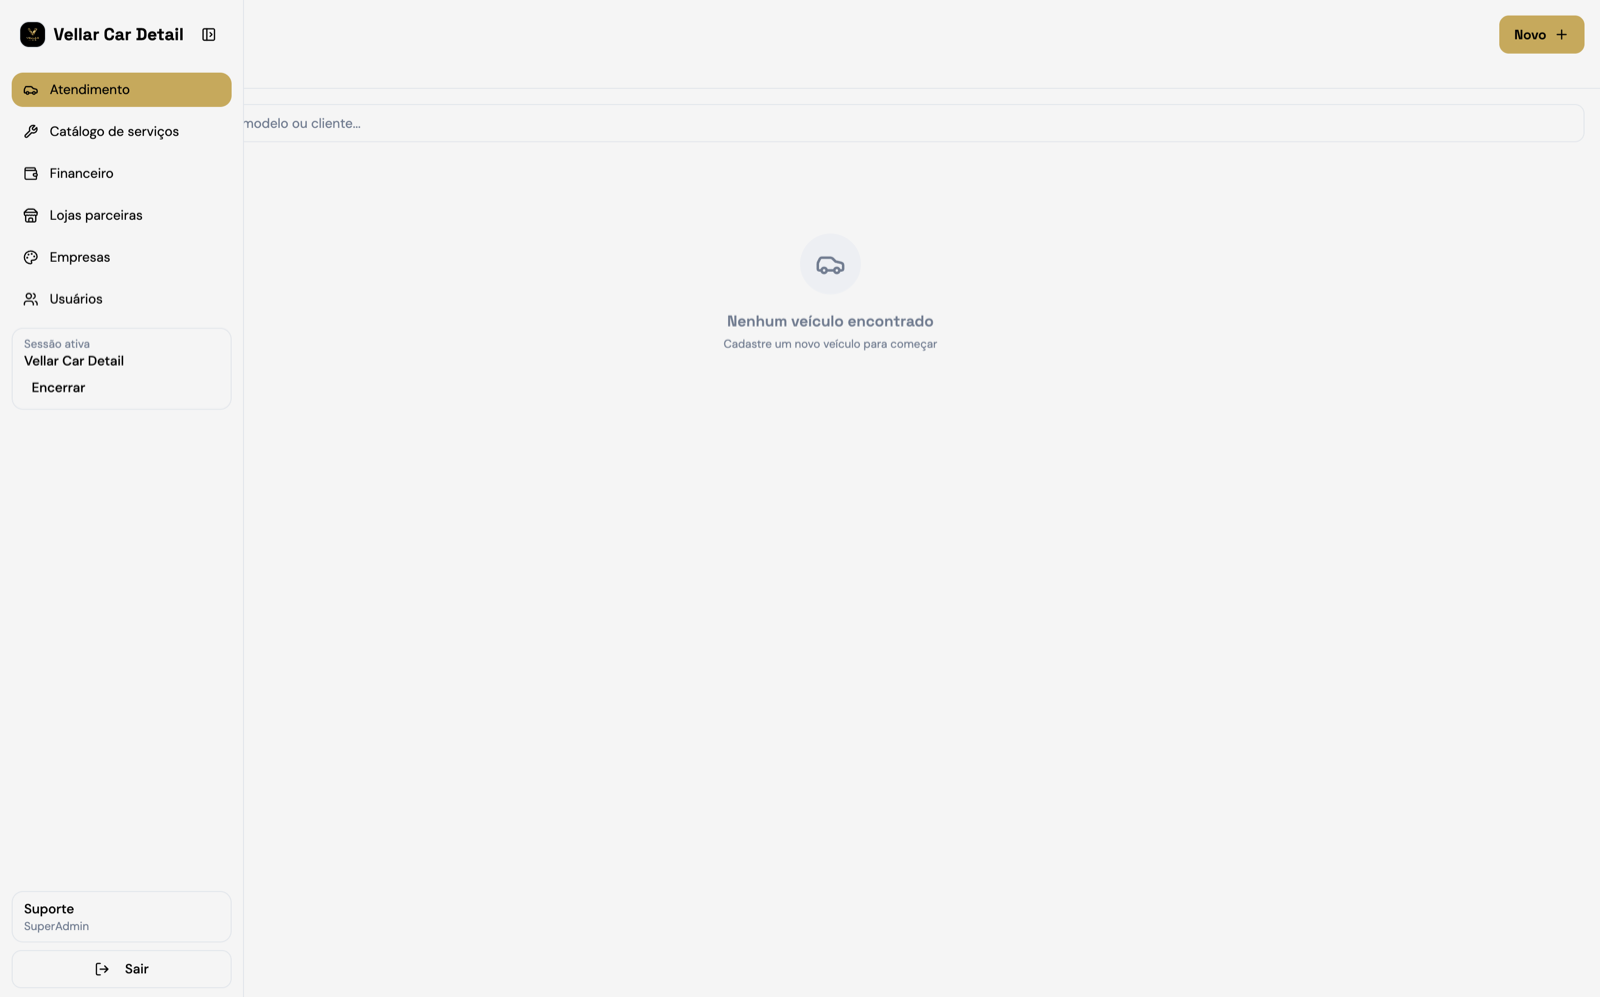
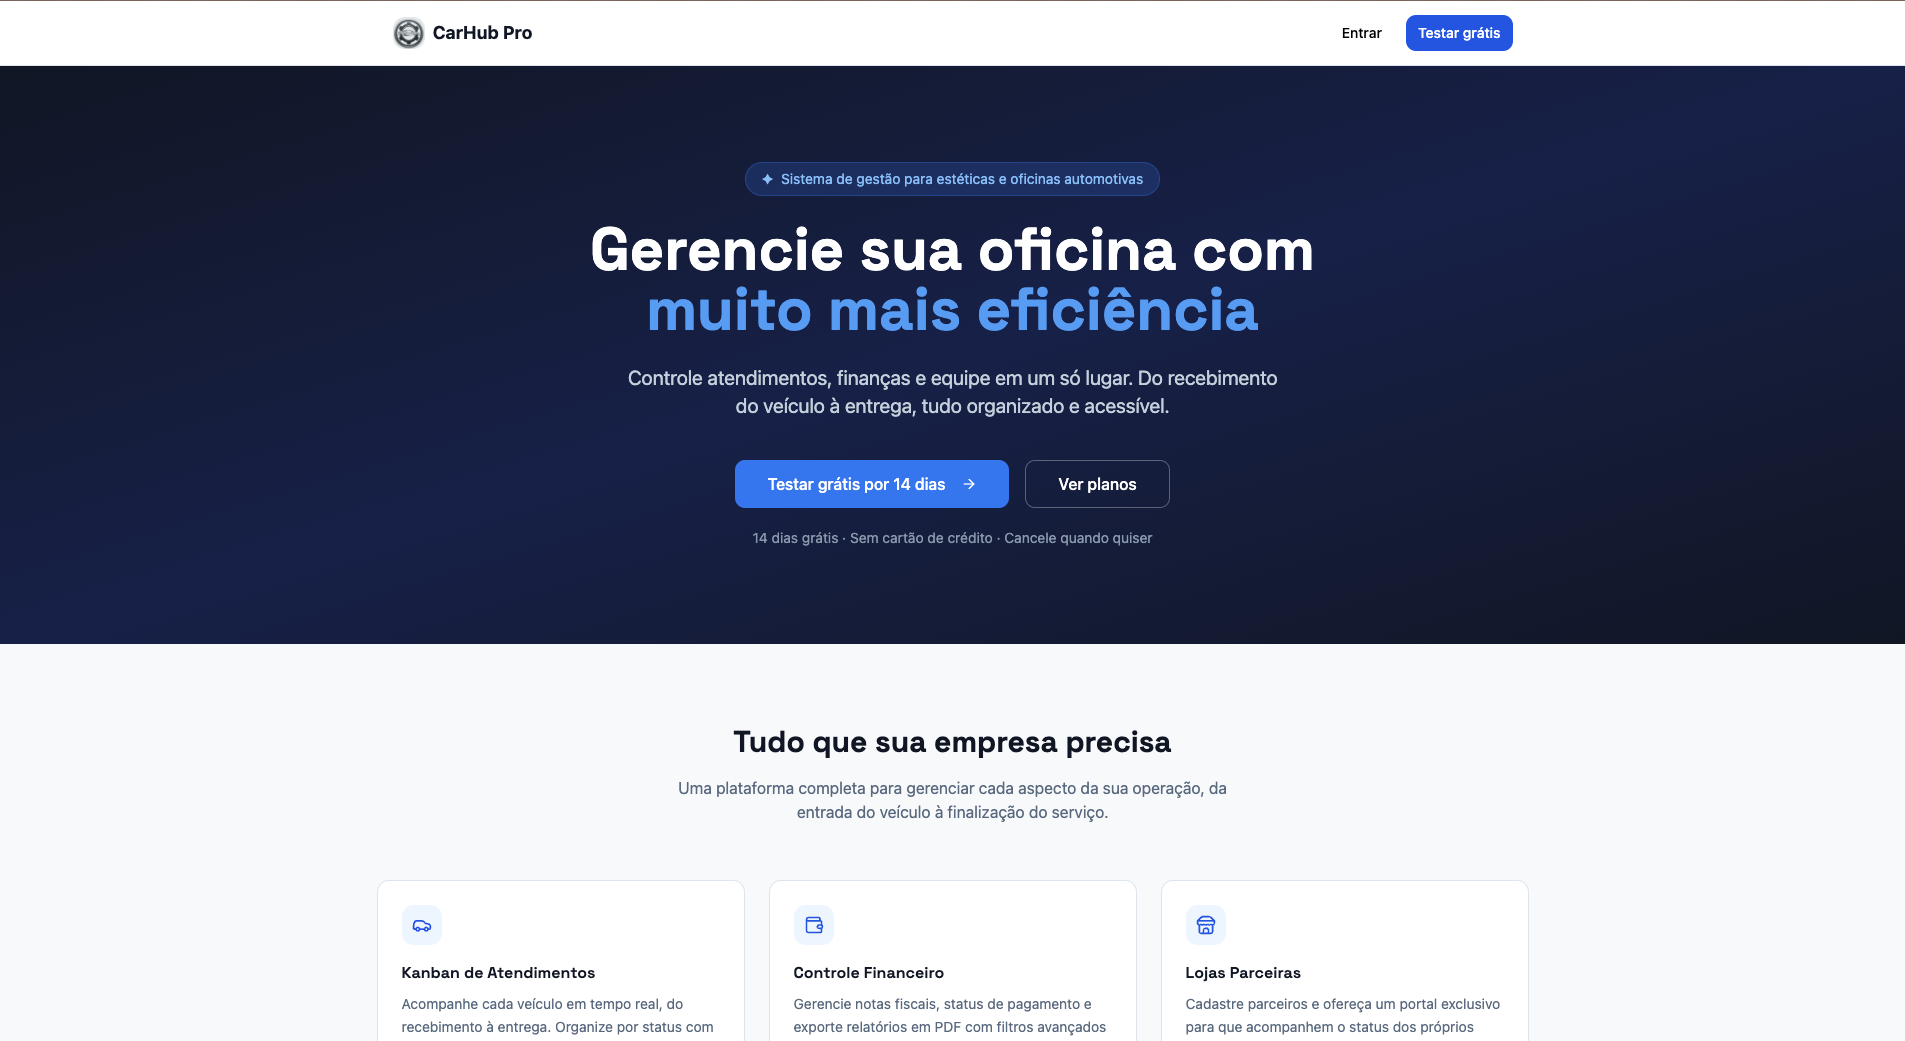
fix: Changed projects name and image

diff --git a/components/sections/projects.tsx b/components/sections/projects.tsx
@@ -9,7 +9,7 @@ import Image from "next/image";
 
 const projects = [
   {
-    name: "Dojo Master Hub",
+    name: "Dojo Kyokai",
     descriptionKey: "projects.dojo.description",
     stack: ["React", "TypeScript", "Supabase", "Mercado Pago"],
     url: "https://dojokyokai.com.br/",
@@ -25,7 +25,7 @@ const projects = [
     image: "/projects/drive-detailer.jpg",
   },
   {
-    name: "Auto Service Hub",
+    name: "CarHub Pro",
     descriptionKey: "projects.autoServiceHub.description",
     stack: ["React", "TypeScript", "Supabase"],
     url: "https://carhubpro.com.br/",
@@ -33,7 +33,7 @@ const projects = [
     image: "/projects/auto-service-hub.png",
   },
   {
-    name: "PDF Diff GUI",
+    name: "jcDiff",
     descriptionKey: "projects.pdfDiffGui.description",
     stack: ["Python", "Tkinter", "pdfplumber"],
     url: "https://github.com/j-cardoso/pdf-diff-gui",